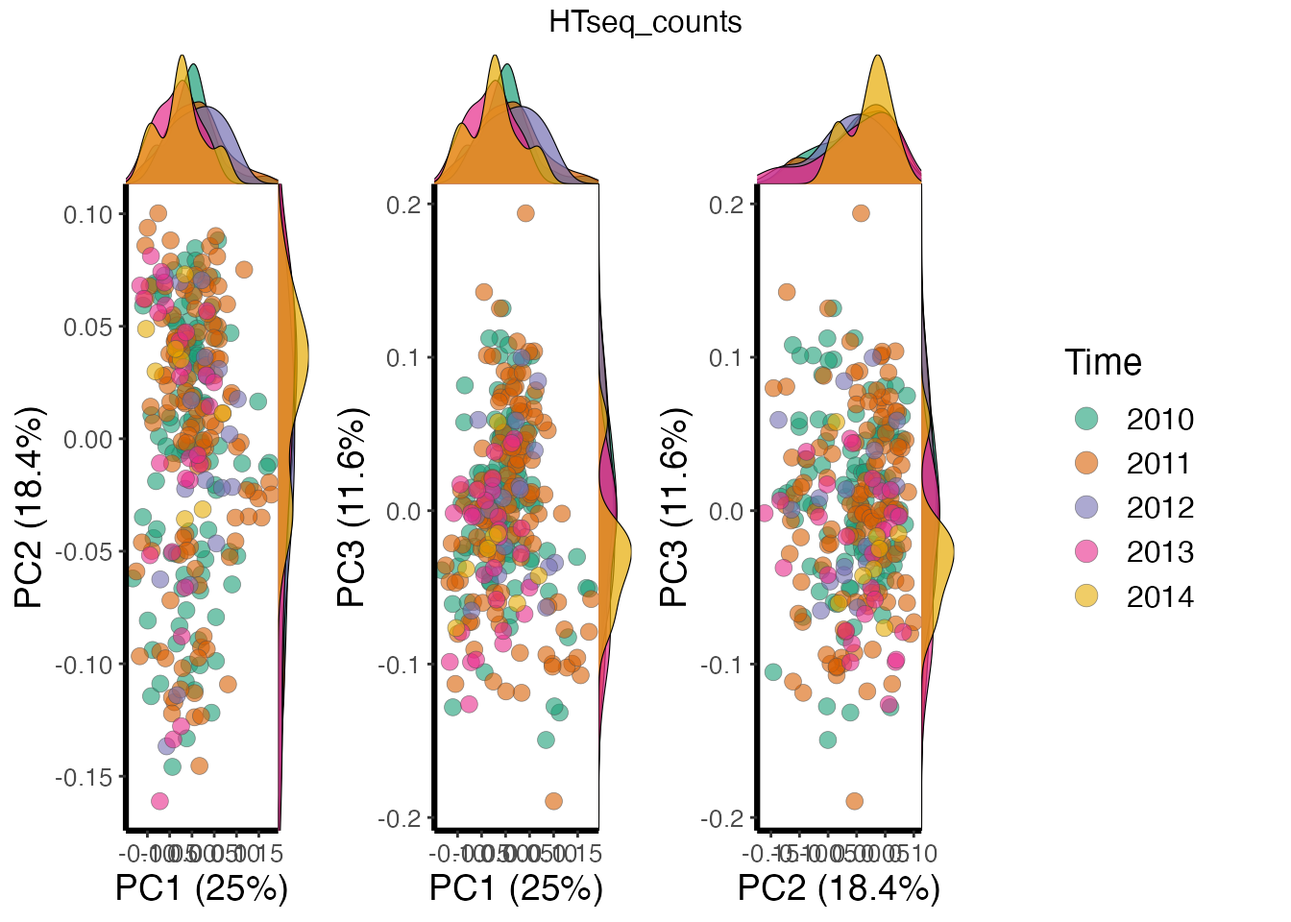
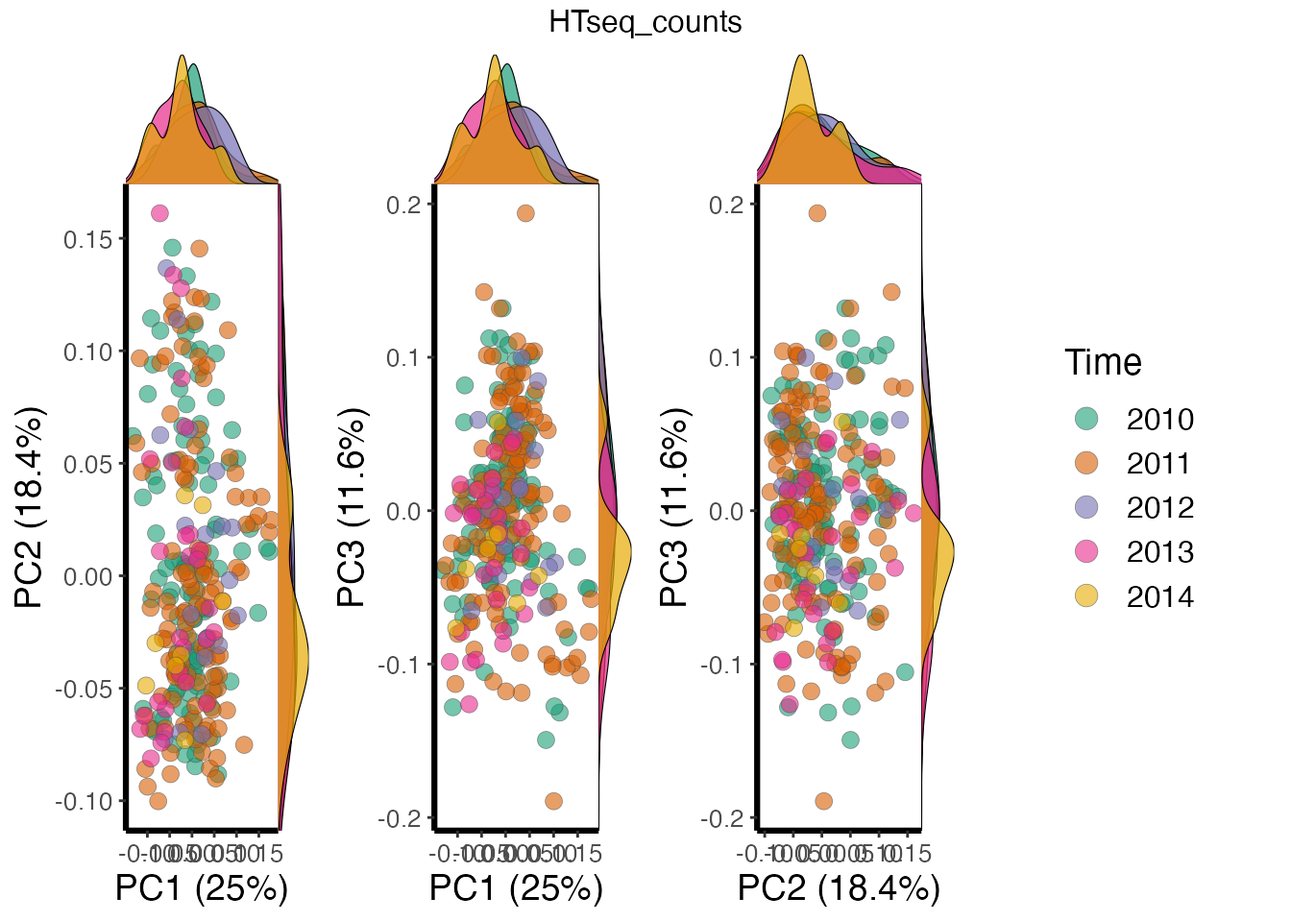
Updating pkgdown website.

diff --git a/docs/articles/tcgaCleaneR_vignette.html b/docs/articles/tcgaCleaneR_vignette.html
@@ -105,72 +105,6 @@
 <code class="sourceCode R"><span class="fu"><a href="https://rdrr.io/r/utils/data.html">data</a></span><span class="op">(</span><span class="st">"brca.data"</span><span class="op">)</span></code></pre></div>
 <div class="sourceCode" id="cb3"><pre class="downlit sourceCode r">
 <code class="sourceCode R"><span class="va">brca.data</span>
-<span class="co">#&gt; Loading required package: SummarizedExperiment</span>
-<span class="co">#&gt; Loading required package: MatrixGenerics</span>
-<span class="co">#&gt; Loading required package: matrixStats</span>
-<span class="co">#&gt; </span>
-<span class="co">#&gt; Attaching package: 'MatrixGenerics'</span>
-<span class="co">#&gt; The following objects are masked from 'package:matrixStats':</span>
-<span class="co">#&gt; </span>
-<span class="co">#&gt;     colAlls, colAnyNAs, colAnys, colAvgsPerRowSet, colCollapse,</span>
-<span class="co">#&gt;     colCounts, colCummaxs, colCummins, colCumprods, colCumsums,</span>
-<span class="co">#&gt;     colDiffs, colIQRDiffs, colIQRs, colLogSumExps, colMadDiffs,</span>
-<span class="co">#&gt;     colMads, colMaxs, colMeans2, colMedians, colMins, colOrderStats,</span>
-<span class="co">#&gt;     colProds, colQuantiles, colRanges, colRanks, colSdDiffs, colSds,</span>
-<span class="co">#&gt;     colSums2, colTabulates, colVarDiffs, colVars, colWeightedMads,</span>
-<span class="co">#&gt;     colWeightedMeans, colWeightedMedians, colWeightedSds,</span>
-<span class="co">#&gt;     colWeightedVars, rowAlls, rowAnyNAs, rowAnys, rowAvgsPerColSet,</span>
-<span class="co">#&gt;     rowCollapse, rowCounts, rowCummaxs, rowCummins, rowCumprods,</span>
-<span class="co">#&gt;     rowCumsums, rowDiffs, rowIQRDiffs, rowIQRs, rowLogSumExps,</span>
-<span class="co">#&gt;     rowMadDiffs, rowMads, rowMaxs, rowMeans2, rowMedians, rowMins,</span>
-<span class="co">#&gt;     rowOrderStats, rowProds, rowQuantiles, rowRanges, rowRanks,</span>
-<span class="co">#&gt;     rowSdDiffs, rowSds, rowSums2, rowTabulates, rowVarDiffs, rowVars,</span>
-<span class="co">#&gt;     rowWeightedMads, rowWeightedMeans, rowWeightedMedians,</span>
-<span class="co">#&gt;     rowWeightedSds, rowWeightedVars</span>
-<span class="co">#&gt; Loading required package: GenomicRanges</span>
-<span class="co">#&gt; Loading required package: stats4</span>
-<span class="co">#&gt; Loading required package: BiocGenerics</span>
-<span class="co">#&gt; Loading required package: parallel</span>
-<span class="co">#&gt; </span>
-<span class="co">#&gt; Attaching package: 'BiocGenerics'</span>
-<span class="co">#&gt; The following objects are masked from 'package:parallel':</span>
-<span class="co">#&gt; </span>
-<span class="co">#&gt;     clusterApply, clusterApplyLB, clusterCall, clusterEvalQ,</span>
-<span class="co">#&gt;     clusterExport, clusterMap, parApply, parCapply, parLapply,</span>
-<span class="co">#&gt;     parLapplyLB, parRapply, parSapply, parSapplyLB</span>
-<span class="co">#&gt; The following objects are masked from 'package:stats':</span>
-<span class="co">#&gt; </span>
-<span class="co">#&gt;     IQR, mad, sd, var, xtabs</span>
-<span class="co">#&gt; The following objects are masked from 'package:base':</span>
-<span class="co">#&gt; </span>
-<span class="co">#&gt;     anyDuplicated, append, as.data.frame, basename, cbind, colnames,</span>
-<span class="co">#&gt;     dirname, do.call, duplicated, eval, evalq, Filter, Find, get, grep,</span>
-<span class="co">#&gt;     grepl, intersect, is.unsorted, lapply, Map, mapply, match, mget,</span>
-<span class="co">#&gt;     order, paste, pmax, pmax.int, pmin, pmin.int, Position, rank,</span>
-<span class="co">#&gt;     rbind, Reduce, rownames, sapply, setdiff, sort, table, tapply,</span>
-<span class="co">#&gt;     union, unique, unsplit, which.max, which.min</span>
-<span class="co">#&gt; Loading required package: S4Vectors</span>
-<span class="co">#&gt; </span>
-<span class="co">#&gt; Attaching package: 'S4Vectors'</span>
-<span class="co">#&gt; The following objects are masked from 'package:base':</span>
-<span class="co">#&gt; </span>
-<span class="co">#&gt;     expand.grid, I, unname</span>
-<span class="co">#&gt; Loading required package: IRanges</span>
-<span class="co">#&gt; Loading required package: GenomeInfoDb</span>
-<span class="co">#&gt; Loading required package: Biobase</span>
-<span class="co">#&gt; Welcome to Bioconductor</span>
-<span class="co">#&gt; </span>
-<span class="co">#&gt;     Vignettes contain introductory material; view with</span>
-<span class="co">#&gt;     'browseVignettes()'. To cite Bioconductor, see</span>
-<span class="co">#&gt;     'citation("Biobase")', and for packages 'citation("pkgname")'.</span>
-<span class="co">#&gt; </span>
-<span class="co">#&gt; Attaching package: 'Biobase'</span>
-<span class="co">#&gt; The following object is masked from 'package:MatrixGenerics':</span>
-<span class="co">#&gt; </span>
-<span class="co">#&gt;     rowMedians</span>
-<span class="co">#&gt; The following objects are masked from 'package:matrixStats':</span>
-<span class="co">#&gt; </span>
-<span class="co">#&gt;     anyMissing, rowMedians</span>
 <span class="co">#&gt; class: SummarizedExperiment </span>
 <span class="co">#&gt; dim: 100 1196 </span>
 <span class="co">#&gt; metadata(0):</span>
@@ -182,7 +116,7 @@
 <span class="co">#&gt;   TCGA-A8-A08F-01A-11R-A00Z-07 ... TCGA-5T-A9QA-01A-11R-A41B-07</span>
 <span class="co">#&gt;   TCGA-BH-A0H9-11A-22R-A466-07</span>
 <span class="co">#&gt; colData names(12): Samples Tissues ... CPE Subtypes</span></code></pre></div>
-<p>The package contains a highly condensed version of the original dataset with 100 unique genes and 1222 samples. The data consists three individual data that can be accessed using . Sample meta-data describing the samples can be accessed using , and is a DataFrame that can store any number of descriptive columns for each sample row. Similarly, Gene meta-data describing the genes can be accessed using , and is a DataFrame that can store any number of descriptive columns for each gene row.</p>
+<p>The package contains a highly condensed version of the original dataset with 100 unique genes and 1196 samples. The data consists three individual data that can be accessed using . Sample meta-data describing the samples can be accessed using , and is a DataFrame that can store any number of descriptive columns for each sample row. Similarly, Gene meta-data describing the genes can be accessed using , and is a DataFrame that can store any number of descriptive columns for each gene row.</p>
 <div class="sourceCode" id="cb4"><pre class="downlit sourceCode r">
 <code class="sourceCode R"><span class="va">gene.annot</span> <span class="op">&lt;-</span>  <span class="fu"><a href="https://rdrr.io/r/base/as.data.frame.html">as.data.frame</a></span><span class="op">(</span><span class="fu">SummarizedExperiment</span><span class="fu">::</span><span class="fu"><a href="https://rdrr.io/pkg/SummarizedExperiment/man/SummarizedExperiment-class.html">rowData</a></span><span class="op">(</span><span class="va">brca.data</span><span class="op">)</span><span class="op">)</span>
 <span class="va">sample.info</span> <span class="op">&lt;-</span>  <span class="fu"><a href="https://rdrr.io/r/base/as.data.frame.html">as.data.frame</a></span><span class="op">(</span><span class="fu">SummarizedExperiment</span><span class="fu">::</span><span class="fu"><a href="https://rdrr.io/pkg/SummarizedExperiment/man/SummarizedExperiment-class.html">colData</a></span><span class="op">(</span><span class="va">brca.data</span><span class="op">)</span><span class="op">)</span>
@@ -261,12 +195,12 @@
 <div class="sourceCode" id="cb13"><pre class="downlit sourceCode r">
 <code class="sourceCode R"><span class="co"># Generated 7 PCs for first two genes</span>
 <span class="fu"><a href="https://rdrr.io/r/utils/head.html">head</a></span><span class="op">(</span><span class="va">df5</span><span class="op">[[</span><span class="st">'HTseq_counts'</span><span class="op">]</span><span class="op">]</span><span class="op">$</span><span class="va">sing.val</span><span class="op">$</span><span class="va">u</span>,<span class="fl">2</span><span class="op">)</span>
-<span class="co">#&gt;                                    [,1]        [,2]        [,3]       [,4]</span>
-<span class="co">#&gt; TCGA-A8-A06Z-01A-11R-A00Z-07 0.00837821  0.04277808 0.049303063  0.1373556</span>
-<span class="co">#&gt; TCGA-AN-A0AK-01A-21R-A00Z-07 0.08050782 -0.01882850 0.008960697 -0.1368417</span>
+<span class="co">#&gt;                                     [,1]        [,2]        [,3]       [,4]</span>
+<span class="co">#&gt; TCGA-A8-A06Z-01A-11R-A00Z-07 -0.00837821 -0.04277808 0.049303063  0.1373556</span>
+<span class="co">#&gt; TCGA-AN-A0AK-01A-21R-A00Z-07 -0.08050782  0.01882850 0.008960697 -0.1368417</span>
 <span class="co">#&gt;                                    [,5]        [,6]       [,7]</span>
-<span class="co">#&gt; TCGA-A8-A06Z-01A-11R-A00Z-07 0.01708429 -0.02702203 0.03422394</span>
-<span class="co">#&gt; TCGA-AN-A0AK-01A-21R-A00Z-07 0.04703133  0.03489097 0.06995299</span></code></pre></div>
+<span class="co">#&gt; TCGA-A8-A06Z-01A-11R-A00Z-07 0.01708429  0.02702203 0.03422406</span>
+<span class="co">#&gt; TCGA-AN-A0AK-01A-21R-A00Z-07 0.04703133 -0.03489097 0.06995300</span></code></pre></div>
 </div>
 <div id="plot-pca" class="section level2">
 <h2 class="hasAnchor">
@@ -274,7 +208,7 @@
 <div class="sourceCode" id="cb14"><pre class="downlit sourceCode r">
 <code class="sourceCode R"><span class="kw"><a href="https://rdrr.io/r/base/library.html">library</a></span><span class="op">(</span><span class="va"><a href="https://ggplot2.tidyverse.org">ggplot2</a></span><span class="op">)</span>
 <span class="kw"><a href="https://rdrr.io/r/base/library.html">library</a></span><span class="op">(</span><span class="va"><a href="https://wilkelab.org/cowplot/">cowplot</a></span><span class="op">)</span>
-<span class="fu"><a href="../reference/plotPC.html">plotPC</a></span><span class="op">(</span>pca.data <span class="op">=</span> <span class="va">df5</span>, data <span class="op">=</span> <span class="va">df4</span>, group <span class="op">=</span> <span class="st">"Time"</span>, plot_type <span class="op">=</span> <span class="st">"DensityPlot"</span>, npcs <span class="op">=</span> <span class="fl">3</span><span class="op">)</span></code></pre></div>
+<span class="fu"><a href="../reference/plotPC.html">plotPC</a></span><span class="op">(</span>pca.data <span class="op">=</span> <span class="va">df5</span>, data <span class="op">=</span> <span class="va">df4</span>, group <span class="op">=</span> <span class="st">"Time"</span>, plot_type <span class="op">=</span> <span class="st">"DensityPlot"</span>, pcs.no <span class="op">=</span> <span class="fu"><a href="https://rdrr.io/r/base/c.html">c</a></span><span class="op">(</span><span class="fl">1</span>,<span class="fl">2</span>,<span class="fl">3</span><span class="op">)</span><span class="op">)</span></code></pre></div>
 <p><img src="tcgaCleaneR_vignette_files/figure-html/unnamed-chunk-14-1.png" width="672" style="display: block; margin: auto;"><img src="tcgaCleaneR_vignette_files/figure-html/unnamed-chunk-14-2.png" width="672" style="display: block; margin: auto;"><img src="tcgaCleaneR_vignette_files/figure-html/unnamed-chunk-14-3.png" width="672" style="display: block; margin: auto;"></p>
 </div>
 </div>
@@ -341,7 +275,11 @@
 <h2 class="hasAnchor">
 <a href="#prps-generation" class="anchor"></a>PRPS Generation</h2>
 <div class="sourceCode" id="cb21"><pre class="downlit sourceCode r">
-<code class="sourceCode R"><span class="va">df9</span> <span class="op">&lt;-</span> <span class="fu"><a href="../reference/createPRPS.html">createPRPS</a></span><span class="op">(</span>data<span class="op">=</span><span class="va">df4</span>, batch<span class="op">=</span><span class="fu"><a href="https://rdrr.io/r/base/c.html">c</a></span><span class="op">(</span><span class="st">'Year'</span>, <span class="st">'Plates'</span><span class="op">)</span>, purity<span class="op">=</span><span class="st">'Purity_singscore'</span>,include.ls<span class="op">=</span><span class="cn">T</span>, include.purity<span class="op">=</span><span class="cn">T</span>, minSamplesPerBatchPS <span class="op">=</span> <span class="fl">3</span>, minSamplesForPuirtyPS <span class="op">=</span> <span class="fl">3</span>, 
+<code class="sourceCode R"><span class="va">sample.info</span> <span class="op">&lt;-</span> <span class="fu"><a href="https://rdrr.io/r/base/as.data.frame.html">as.data.frame</a></span><span class="op">(</span><span class="fu">SummarizedExperiment</span><span class="fu">::</span><span class="fu"><a href="https://rdrr.io/pkg/SummarizedExperiment/man/SummarizedExperiment-class.html">colData</a></span><span class="op">(</span><span class="va">df4</span><span class="op">)</span><span class="op">)</span>
+<span class="va">expr.data</span> <span class="op">&lt;-</span> <span class="fu"><a href="https://rdrr.io/r/base/matrix.html">as.matrix</a></span><span class="op">(</span><span class="fu">SummarizedExperiment</span><span class="fu">::</span><span class="fu"><a href="https://rdrr.io/pkg/SummarizedExperiment/man/SummarizedExperiment-class.html">assay</a></span><span class="op">(</span><span class="va">df4</span>, <span class="st">'HTseq_counts'</span><span class="op">)</span><span class="op">)</span> <span class="co"># gene expression data</span>
+<span class="va">sample.info</span><span class="op">$</span><span class="va">ls</span> <span class="op">&lt;-</span> <span class="fu"><a href="https://rdrr.io/r/base/colSums.html">colSums</a></span><span class="op">(</span><span class="va">expr.data</span><span class="op">)</span> <span class="co"># adding library size variable</span>
+
+<span class="va">df9</span> <span class="op">&lt;-</span> <span class="fu"><a href="../reference/createPRPS.html">createPRPS</a></span><span class="op">(</span><span class="va">expr.data</span>, <span class="va">sample.info</span>, librarySize <span class="op">=</span> <span class="st">'ls'</span>, batch<span class="op">=</span><span class="fu"><a href="https://rdrr.io/r/base/c.html">c</a></span><span class="op">(</span><span class="st">'Year'</span>, <span class="st">'Plates'</span><span class="op">)</span>, biology <span class="op">=</span> <span class="st">'Subtypes'</span>, purity<span class="op">=</span><span class="st">'Purity_singscore'</span>,include.ls<span class="op">=</span><span class="cn">T</span>, include.purity<span class="op">=</span><span class="cn">T</span>, minSamplesPerBatchPS <span class="op">=</span> <span class="fl">3</span>, minSamplesForPuirtyPS <span class="op">=</span> <span class="fl">3</span>, 
                  minSamplesForPurityPerBiology <span class="op">=</span> <span class="fl">12</span>, minSamplesForLibrarySizePerBatch <span class="op">=</span> <span class="fl">6</span>,
                  minSamplesForLibrarySizePS <span class="op">=</span> <span class="fl">3</span><span class="op">)</span>
 <span class="co">#&gt; PRPS are generated for batch effects</span>

diff --git a/docs/index.html b/docs/index.html
@@ -191,7 +191,7 @@
 <div class="sourceCode" id="cb13"><pre class="downlit sourceCode r">
 <code class="sourceCode R"><span class="kw"><a href="https://rdrr.io/r/base/library.html">library</a></span><span class="op">(</span><span class="va"><a href="https://ggplot2.tidyverse.org">ggplot2</a></span><span class="op">)</span>
 <span class="kw"><a href="https://rdrr.io/r/base/library.html">library</a></span><span class="op">(</span><span class="va"><a href="https://wilkelab.org/cowplot/">cowplot</a></span><span class="op">)</span>
-<span class="va">pca.plot.data</span> <span class="op">&lt;-</span> <span class="fu"><a href="reference/plotPC.html">plotPC</a></span><span class="op">(</span>pca.data <span class="op">=</span> <span class="va">pca_data</span>, data <span class="op">=</span> <span class="va">filtered.data3</span>, group <span class="op">=</span> <span class="st">"Time"</span>, plot_type <span class="op">=</span> <span class="st">"DensityPlot"</span>, npcs <span class="op">=</span> <span class="fl">3</span><span class="op">)</span></code></pre></div>
+<span class="va">pca.plot.data</span> <span class="op">&lt;-</span> <span class="fu"><a href="reference/plotPC.html">plotPC</a></span><span class="op">(</span>pca.data <span class="op">=</span> <span class="va">pca_data</span>, data <span class="op">=</span> <span class="va">filtered.data3</span>, group <span class="op">=</span> <span class="st">"Time"</span>, plot_type <span class="op">=</span> <span class="st">"DensityPlot"</span>, pcs.no <span class="op">=</span> <span class="fu"><a href="https://rdrr.io/r/base/c.html">c</a></span><span class="op">(</span><span class="fl">1</span>,<span class="fl">2</span>,<span class="fl">3</span><span class="op">)</span><span class="op">)</span></code></pre></div>
 <p><img src="reference/figures/README-unnamed-chunk-14-1.png" width="100%" style="display: block; margin: auto;"><img src="reference/figures/README-unnamed-chunk-14-2.png" width="100%" style="display: block; margin: auto;"><img src="reference/figures/README-unnamed-chunk-14-3.png" width="100%" style="display: block; margin: auto;"></p>
 </div>
 <div id="pcs-correlation-with-unwanted-variations" class="section level3">
@@ -220,7 +220,11 @@
 <h2 class="hasAnchor">
 <a href="#prps-generation" class="anchor"></a>PRPS Generation</h2>
 <div class="sourceCode" id="cb16"><pre class="downlit sourceCode r">
-<code class="sourceCode R"><span class="va">df9</span> <span class="op">&lt;-</span> <span class="fu"><a href="reference/createPRPS.html">createPRPS</a></span><span class="op">(</span>data<span class="op">=</span><span class="va">filtered.data3</span>, batch<span class="op">=</span><span class="fu"><a href="https://rdrr.io/r/base/c.html">c</a></span><span class="op">(</span><span class="st">'Year'</span>, <span class="st">'Plates'</span><span class="op">)</span>, purity<span class="op">=</span><span class="st">'Purity_singscore'</span>,include.ls<span class="op">=</span><span class="cn">T</span>, include.purity<span class="op">=</span><span class="cn">T</span>, minSamplesPerBatchPS <span class="op">=</span> <span class="fl">3</span>, minSamplesForPuirtyPS <span class="op">=</span> <span class="fl">3</span>, 
+<code class="sourceCode R"><span class="va">sample.info</span> <span class="op">&lt;-</span> <span class="fu"><a href="https://rdrr.io/r/base/as.data.frame.html">as.data.frame</a></span><span class="op">(</span><span class="fu">SummarizedExperiment</span><span class="fu">::</span><span class="fu"><a href="https://rdrr.io/pkg/SummarizedExperiment/man/SummarizedExperiment-class.html">colData</a></span><span class="op">(</span><span class="va">filtered.data3</span><span class="op">)</span><span class="op">)</span>
+<span class="va">expr.data</span> <span class="op">&lt;-</span> <span class="fu"><a href="https://rdrr.io/r/base/matrix.html">as.matrix</a></span><span class="op">(</span><span class="fu">SummarizedExperiment</span><span class="fu">::</span><span class="fu"><a href="https://rdrr.io/pkg/SummarizedExperiment/man/SummarizedExperiment-class.html">assay</a></span><span class="op">(</span><span class="va">filtered.data3</span>, <span class="st">'HTseq_counts'</span><span class="op">)</span><span class="op">)</span> <span class="co"># gene expression data</span>
+<span class="va">sample.info</span><span class="op">$</span><span class="va">ls</span> <span class="op">&lt;-</span> <span class="fu"><a href="https://rdrr.io/r/base/colSums.html">colSums</a></span><span class="op">(</span><span class="va">expr.data</span><span class="op">)</span> <span class="co"># adding library size variable</span>
+
+<span class="va">df9</span> <span class="op">&lt;-</span> <span class="fu"><a href="reference/createPRPS.html">createPRPS</a></span><span class="op">(</span><span class="va">expr.data</span>, <span class="va">sample.info</span>, librarySize <span class="op">=</span> <span class="st">'ls'</span>, batch<span class="op">=</span><span class="fu"><a href="https://rdrr.io/r/base/c.html">c</a></span><span class="op">(</span><span class="st">'Year'</span>, <span class="st">'Plates'</span><span class="op">)</span>, biology <span class="op">=</span> <span class="st">'Subtypes'</span>, purity<span class="op">=</span><span class="st">'Purity_singscore'</span>,include.ls<span class="op">=</span><span class="cn">T</span>, include.purity<span class="op">=</span><span class="cn">T</span>, minSamplesPerBatchPS <span class="op">=</span> <span class="fl">3</span>, minSamplesForPuirtyPS <span class="op">=</span> <span class="fl">3</span>, 
                  minSamplesForPurityPerBiology <span class="op">=</span> <span class="fl">12</span>, minSamplesForLibrarySizePerBatch <span class="op">=</span> <span class="fl">6</span>,
                  minSamplesForLibrarySizePS <span class="op">=</span> <span class="fl">3</span><span class="op">)</span></code></pre></div>
 </div>

diff --git a/docs/reference/createPRPS.html b/docs/reference/createPRPS.html
@@ -138,10 +138,11 @@ biology while factors like Purity captures variation within biology.</p>
     </div>
 
     <pre class="usage"><span class='fu'>createPRPS</span><span class='op'>(</span>
-  <span class='va'>data</span>,
-  librarySize <span class='op'>=</span> <span class='st'>"ls"</span>,
+  <span class='va'>expr.data</span>,
+  <span class='va'>sample.info</span>,
+  <span class='va'>librarySize</span>,
   <span class='va'>batch</span>,
-  biology <span class='op'>=</span> <span class='st'>"Subtypes"</span>,
+  <span class='va'>biology</span>,
   <span class='va'>purity</span>,
   <span class='va'>include.ls</span>,
   <span class='va'>include.purity</span>,
@@ -156,12 +157,16 @@ biology while factors like Purity captures variation within biology.</p>
     <table class="ref-arguments">
     <colgroup><col class="name" /><col class="desc" /></colgroup>
     <tr>
-      <th>data</th>
-      <td><p>S4 data object</p></td>
+      <th>expr.data</th>
+      <td><p>S4 data object: Cancer Gene expression data</p></td>
+    </tr>
+    <tr>
+      <th>sample.info</th>
+      <td><p>S4 data object: Cancer data Sample information</p></td>
     </tr>
     <tr>
       <th>librarySize</th>
-      <td><p>character: Library Size variable in input data object. Default is 'ls'.</p></td>
+      <td><p>character: Library Size variable in input <code>sample.info</code> data object.</p></td>
     </tr>
     <tr>
       <th>batch</th>
@@ -213,7 +218,8 @@ and PRPS analysis. Default is 'Subtypes'.</p></td>
 
     <h2 class="hasAnchor" id="examples"><a class="anchor" href="#examples"></a>Examples</h2>
     <pre class="examples"><span class='r-in'><span class='kw'>if</span> <span class='op'>(</span><span class='cn'>FALSE</span><span class='op'>)</span> <span class='op'>{</span></span>
-<span class='r-in'><span class='fu'>createPRPS</span><span class='op'>(</span>data<span class='op'>=</span><span class='va'>brca.data</span>, batch<span class='op'>=</span><span class='fu'><a href='https://rdrr.io/r/base/c.html'>c</a></span><span class='op'>(</span><span class='st'>'Year'</span>, <span class='st'>'Plates'</span><span class='op'>)</span>, purity<span class='op'>=</span><span class='st'>'Purity_singscore'</span>,include.ls<span class='op'>=</span><span class='cn'>TRUE</span>, include.purity<span class='op'>=</span><span class='cn'>TRUE</span>,</span>
+<span class='r-in'><span class='fu'>createPRPS</span><span class='op'>(</span><span class='va'>expr.data</span>, <span class='va'>sample.info</span>, librarySize <span class='op'>=</span> <span class='st'>'ls'</span>, batch<span class='op'>=</span><span class='fu'><a href='https://rdrr.io/r/base/c.html'>c</a></span><span class='op'>(</span><span class='st'>'Year'</span>, <span class='st'>'Plates'</span><span class='op'>)</span>, biology <span class='op'>=</span> <span class='st'>'Subtypes'</span>,</span>
+<span class='r-in'>purity<span class='op'>=</span><span class='st'>'Purity_singscore'</span>,include.ls<span class='op'>=</span><span class='cn'>TRUE</span>, include.purity<span class='op'>=</span><span class='cn'>TRUE</span>,</span>
 <span class='r-in'>minSamplesPerBatchPS <span class='op'>=</span> <span class='fl'>3</span>, minSamplesForPuirtyPS <span class='op'>=</span> <span class='fl'>3</span>, minSamplesForPurityPerBiology <span class='op'>=</span> <span class='fl'>12</span>,</span>
 <span class='r-in'>minSamplesForLibrarySizePerBatch <span class='op'>=</span> <span class='fl'>6</span>,minSamplesForLibrarySizePS <span class='op'>=</span> <span class='fl'>3</span><span class='op'>)</span></span>
 <span class='r-in'><span class='op'>}</span></span>

diff --git a/docs/reference/plotPC.html b/docs/reference/plotPC.html
@@ -129,7 +129,7 @@
     <p>This function is a part of the data analysis functionality of <code>tcgaCleaneR</code>. It helps to visualize the PCs from <code>get.pca</code>.</p>
     </div>
 
-    <pre class="usage"><span class='fu'>plotPC</span><span class='op'>(</span><span class='va'>pca.data</span>, <span class='va'>data</span>, <span class='va'>group</span>, <span class='va'>plot_type</span>, <span class='va'>npcs</span><span class='op'>)</span></pre>
+    <pre class="usage"><span class='fu'>plotPC</span><span class='op'>(</span><span class='va'>pca.data</span>, <span class='va'>data</span>, <span class='va'>group</span>, <span class='va'>plot_type</span>, <span class='va'>pcs.no</span><span class='op'>)</span></pre>
 
     <h2 class="hasAnchor" id="arguments"><a class="anchor" href="#arguments"></a>Arguments</h2>
     <table class="ref-arguments">
@@ -151,8 +151,8 @@
       <td><p>character: Plot type</p></td>
     </tr>
     <tr>
-      <th>npcs</th>
-      <td><p>numeric: Number of PCs that needs to be plotted</p></td>
+      <th>pcs.no</th>
+      <td><p>numeric vector: PCs that needs to be plotted</p></td>
     </tr>
     </table>
 
@@ -162,8 +162,8 @@
 
     <h2 class="hasAnchor" id="examples"><a class="anchor" href="#examples"></a>Examples</h2>
     <pre class="examples"><span class='r-in'><span class='kw'>if</span> <span class='op'>(</span><span class='cn'>FALSE</span><span class='op'>)</span> <span class='op'>{</span></span>
-<span class='r-in'><span class='fu'>plotPC</span><span class='op'>(</span><span class='va'>pca.data</span>, data <span class='op'>=</span> <span class='va'>brca.data</span>, group <span class='op'>=</span> <span class='st'>"Time"</span>, plot_type <span class='op'>=</span> <span class='st'>"DensityPlot"</span>, npcs <span class='op'>=</span> <span class='fl'>3</span><span class='op'>)</span></span>
-<span class='r-in'><span class='fu'>plotPC</span><span class='op'>(</span>pca.data <span class='op'>=</span> <span class='va'>df6</span>, data <span class='op'>=</span> <span class='va'>brca.data</span>, group <span class='op'>=</span> <span class='st'>"Plate"</span>, plot_type <span class='op'>=</span> <span class='st'>"BoxPlot"</span>, npcs <span class='op'>=</span> <span class='fl'>3</span><span class='op'>)</span></span>
+<span class='r-in'><span class='fu'>plotPC</span><span class='op'>(</span><span class='va'>pca.data</span>, data <span class='op'>=</span> <span class='va'>brca.data</span>, group <span class='op'>=</span> <span class='st'>"Time"</span>, plot_type <span class='op'>=</span> <span class='st'>"DensityPlot"</span>, pcs.no <span class='op'>=</span> <span class='fu'><a href='https://rdrr.io/r/base/c.html'>c</a></span><span class='op'>(</span><span class='fl'>1</span>,<span class='fl'>2</span>,<span class='fl'>3</span><span class='op'>)</span><span class='op'>)</span></span>
+<span class='r-in'><span class='fu'>plotPC</span><span class='op'>(</span>pca.data <span class='op'>=</span> <span class='va'>df6</span>, data <span class='op'>=</span> <span class='va'>brca.data</span>, group <span class='op'>=</span> <span class='st'>"Plate"</span>, plot_type <span class='op'>=</span> <span class='st'>"BoxPlot"</span>, pcs.no <span class='op'>=</span> <span class='fu'><a href='https://rdrr.io/r/base/c.html'>c</a></span><span class='op'>(</span><span class='fl'>1</span>,<span class='fl'>2</span>,<span class='fl'>4</span><span class='op'>)</span><span class='op'>)</span></span>
 <span class='r-in'><span class='op'>}</span></span>
 </pre>
   </div>
